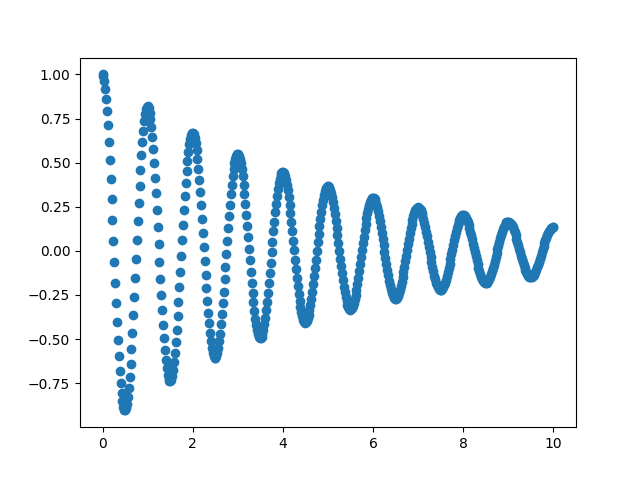
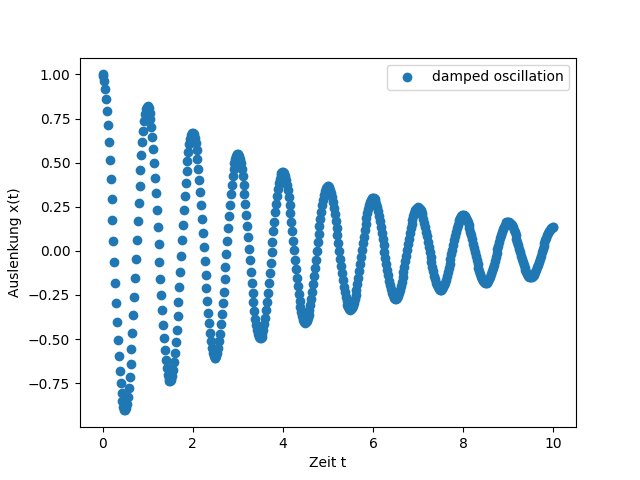
sheet08 finisched

Changed region(s): [[0.625, 0.125, 0.875, 0.1875], [0.0, 0.4062, 0.0312, 0.625], [0.4688, 0.9375, 0.5312, 0.9688]]

diff --git a/sheet07/sheet07-solution/Python/read_data.py b/sheet07/sheet07-solution/Python/read_data.py
@@ -5,30 +5,29 @@ x_werte = []
 y_werte = []
 
 # 1. Datei öffnen und Schleife über Zeilen
-with open(dateiname, 'r') as datei:
+with open(dateiname, "r") as datei:
     print(f"Verarbeite Daten aus '{dateiname}'...")
-    
+
     for zeilennummer, zeile in enumerate(datei, 1):
-        
         # 2. .strip() verwenden
         bereinigte_zeile = zeile.strip()
-        
+
         # 3. Filtern von leeren Zeilen und Kommentaren
-        if not bereinigte_zeile or bereinigte_zeile.startswith('#'):
+        if not bereinigte_zeile or bereinigte_zeile.startswith("#"):
             # Ignoriere auch Zeilen, die mit '#' (Kommentar) beginnen
             continue
-        
+
         # 4. Sonst Zeile ausgeben und Werte extrahieren
         print(f"Verarbeite: '{bereinigte_zeile}'")
 
-        #Teile die bereinigte_zeile in Einzelteile auf
+        # Teile die bereinigte_zeile in Einzelteile auf
         teile = bereinigte_zeile.split()
 
         if len(teile) == 2:
             # Wandel die Teile in Gleitkommazahlen um
             x = float(teile[0])
             y = float(teile[1])
-            
+
             # Speicher die Werte in den Listen x_werte und y_werte
             x_werte.append(x)
             y_werte.append(y)
@@ -36,20 +35,18 @@ with open(dateiname, 'r') as datei:
 # 5. Am Ende alle Tupel x-y plotten
 if x_werte:
     print(f"Erfolgreich {len(x_werte)} Datenpunkte gesammelt. Erstelle Plot.")
-    
+
     plt.figure()
     # Verwende Sie plt.scatter() um x_werte gegen y_werte zu plotten
-    plt.scatter(x_werte,y_werte)
-        
-    plt.title('Messdaten aus Datei')
-    plt.xlabel('X-Koordinate')
-    plt.ylabel('Y-Koordinate')
+    plt.scatter(x_werte, y_werte)
+
+    plt.title("Messdaten aus Datei")
+    plt.xlabel("X-Koordinate")
+    plt.ylabel("Y-Koordinate")
     plt.grid(True)
     # plt.savefig('messdaten_plot.pdf')
-    plt.savefig('messdaten_plot.png')
+    plt.savefig("messdaten_plot.png")
 
     plt.show()
 else:
     print("Keine gültigen Daten zum Plotten gefunden.")
-    
-    

diff --git a/sheet08/sheet08-solution/cgl-sheet08-30-11-2025.tex b/sheet08/sheet08-solution/cgl-sheet08-30-11-2025.tex
@@ -21,7 +21,7 @@
 
 \usepackage{minted}
 
-\title{CGL-sheet07}
+\title{CGL-sheet08}
 
 \author[1]{Robin Kühnberger}
 \author[2]{Felix Naraschewski}
@@ -42,20 +42,45 @@
 
 \section{Plotten einer gedämpften harmonischen Schwingung mit matplotlib und argparse}
 
+\subsection{Teil 1: Implementierung und Darstellung}
+
 \inputminted[breaklines]{python3}{damped_oscillation.py}
 
 \begin{figure}[H]
-	\centering
-	\includegraphics[width=1\textwidth]{damped_oscillation.png}
-	\caption{Scatter Plot}
-	\label{img:01}
+  \centering
+  \includegraphics[width=1\textwidth]{damped_oscillation.png}
+  \caption{Scatter Plot}
+  \label{img:01}
 \end{figure}
 
+\subsection{Teil 2: Erweiterung mit argparse (Kommandozeilen-Argumente)}
 
+\inputminted[breaklines]{python3}{damped_oscillator_argparse.py}
+
+\begin{figure}[H]
+  \centering
+  \includegraphics[width=1\textwidth]{damped_oscillator_argparse.png}
+  \caption{Colorbar Plot}
+  \label{img:02}
+\end{figure}
 
 \section{Array-Slicing}
 
 \inputminted[breaklines]{python3}{array-slicing.py}
+
+\begin{figure}[H]
+  \centering
+  \includegraphics[width=1\textwidth]{array-slicing.png}
+  \caption{Colorbar Plot}
+  \label{img:03}
+\end{figure}
+
+\begin{figure}[H]
+  \centering
+  \includegraphics[width=1\textwidth]{array-slicing-sad.png}
+  \caption{Colorbar Plot}
+  \label{img:04}
+\end{figure}
 
 
 %\section*{Quellen}

diff --git a/sheet08/sheet08-solution/damped_oscillator_argparse.py b/sheet08/sheet08-solution/damped_oscillator_argparse.py
@@ -1,0 +1,36 @@
+import numpy as np
+import matplotlib.pyplot as plt
+import argparse
+
+
+# Funktion zur Berechnung der gedämpften harmonischen Schwingung
+def damped_oscillation(t, A, gamma, omega):
+    """
+    Berechnet die Auslenkung einer gedämpften harmonischen Schwingung zur Zeit t.
+
+    x(t) = A * e^(-gamma * t) * cos(omega * t)
+    """
+    return A * np.exp(-gamma * t) * np.cos(omega * t)
+
+
+time_steps = np.linspace(0, 10, num=500)
+
+parser = argparse.ArgumentParser()
+parser.add_argument("-A", "--amplitude", "-amplitude", type=float, default=1.0,
+                    help="The initial amplitude.")
+
+parser.add_argument("-g", "--gamma", "-gamma", type=float, default=0.0,
+                    help="The damping coefficient.")
+
+parser.add_argument("-o", "--omega", "-omega", type=float, required=True,
+                    help="The natural frequency.")
+args = parser.parse_args()
+
+
+plt.scatter(time_steps, damped_oscillation(
+    time_steps, args.amplitude, args.gamma, args.omega))
+plt.xlabel("Zeit t")
+plt.ylabel("Auslenkung x(t)")
+plt.legend(['damped oscillation'])
+plt.savefig('damped_oscillator_argparse.png')
+plt.show()

diff --git a/sheet08/sheet08-solution/damped_oscillation.py b/sheet08/sheet08-solution/damped_oscillation.py
@@ -6,17 +6,17 @@ import matplotlib.pyplot as plt
 def damped_oscillation(t, A, gamma, omega):
     """
     Berechnet die Auslenkung einer gedämpften harmonischen Schwingung zur Zeit t.
-    
+
     x(t) = A * e^(-gamma * t) * cos(omega * t)
     """
     return A * np.exp(-gamma * t) * np.cos(omega * t)
 
+
 time_steps = np.linspace(0, 10, num=500)
 
-damped_oscillation(time_steps,1,.2,2*np.pi)
-
-
-plt.scatter(time_steps, damped_oscillation(time_steps,1,.2,2*np.pi))
-#plt.axis('equal')
+plt.scatter(time_steps, damped_oscillation(time_steps, 1, .2, 2*np.pi))
+plt.xlabel("Zeit t")
+plt.ylabel("Auslenkung x(t)")
+plt.legend(['damped oscillation'])
 plt.savefig('damped_oscillation.png')
 plt.show()

diff --git a/sheet08/sheet08-solution/array-slicing-sad.py b/sheet08/sheet08-solution/array-slicing-sad.py
@@ -1,0 +1,20 @@
+import numpy as np
+import matplotlib.pyplot as plt
+
+
+data = np.zeros((10, 10))
+
+data[2:7, 3] = 1
+for i in (1, 7):
+    data[i, 2] = 1
+
+
+for i in (2, 6):
+    data[i, 5:7] = 1
+
+print(data)
+
+plt.imshow(data.T, origin='lower')
+plt.colorbar()
+plt.savefig('array-slicing-sad.png')
+plt.show()

diff --git a/sheet08/sheet08-solution/array-slicing.py b/sheet08/sheet08-solution/array-slicing.py
@@ -1,0 +1,17 @@
+import numpy as np
+import matplotlib.pyplot as plt
+
+
+data = np.zeros((10, 10))
+
+data[1:7, 3] = 1
+
+for i in (2, 6):
+    data[i, 5:7] = 1
+
+print(data)
+
+plt.imshow(data.T, origin='lower')
+plt.colorbar()
+plt.savefig('array-slicing.png')
+plt.show()
